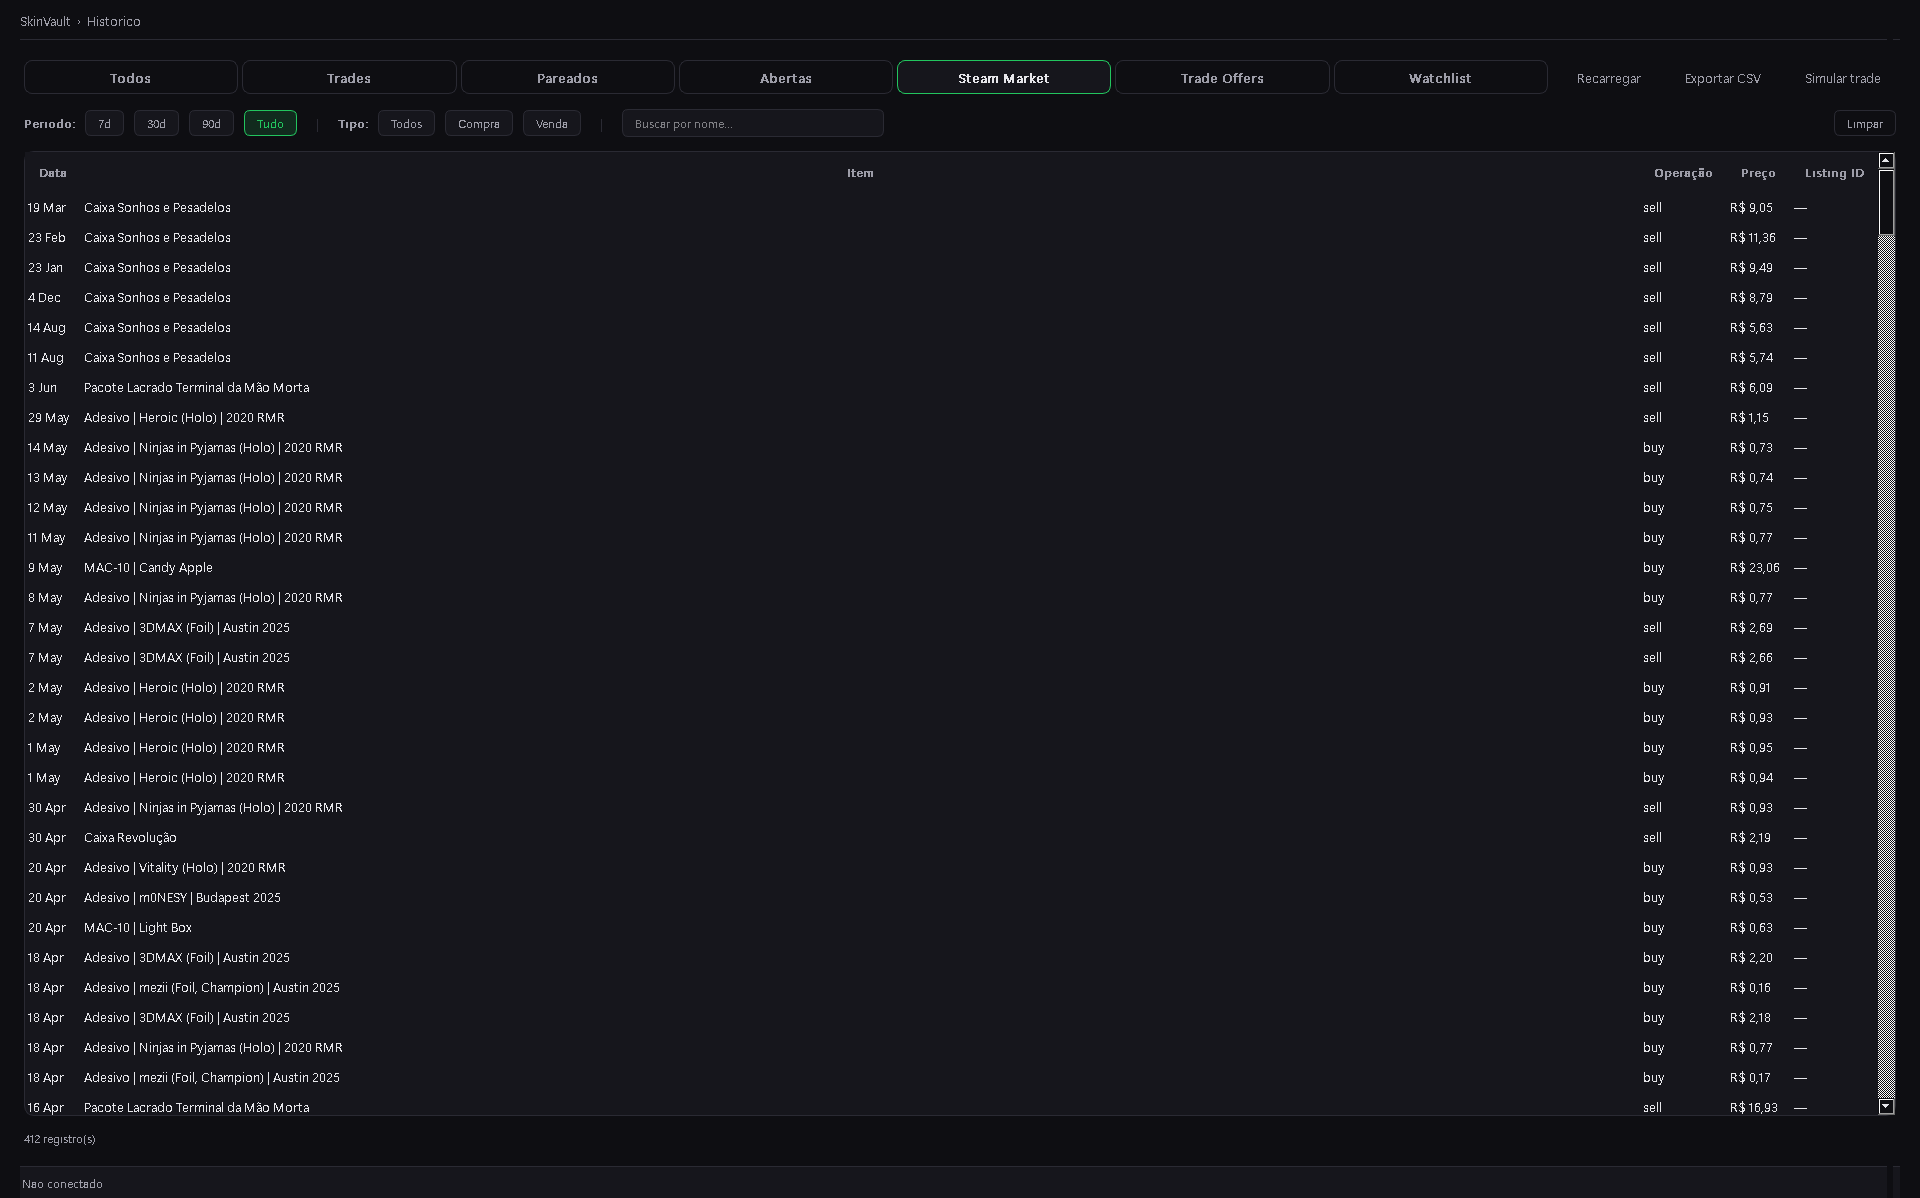
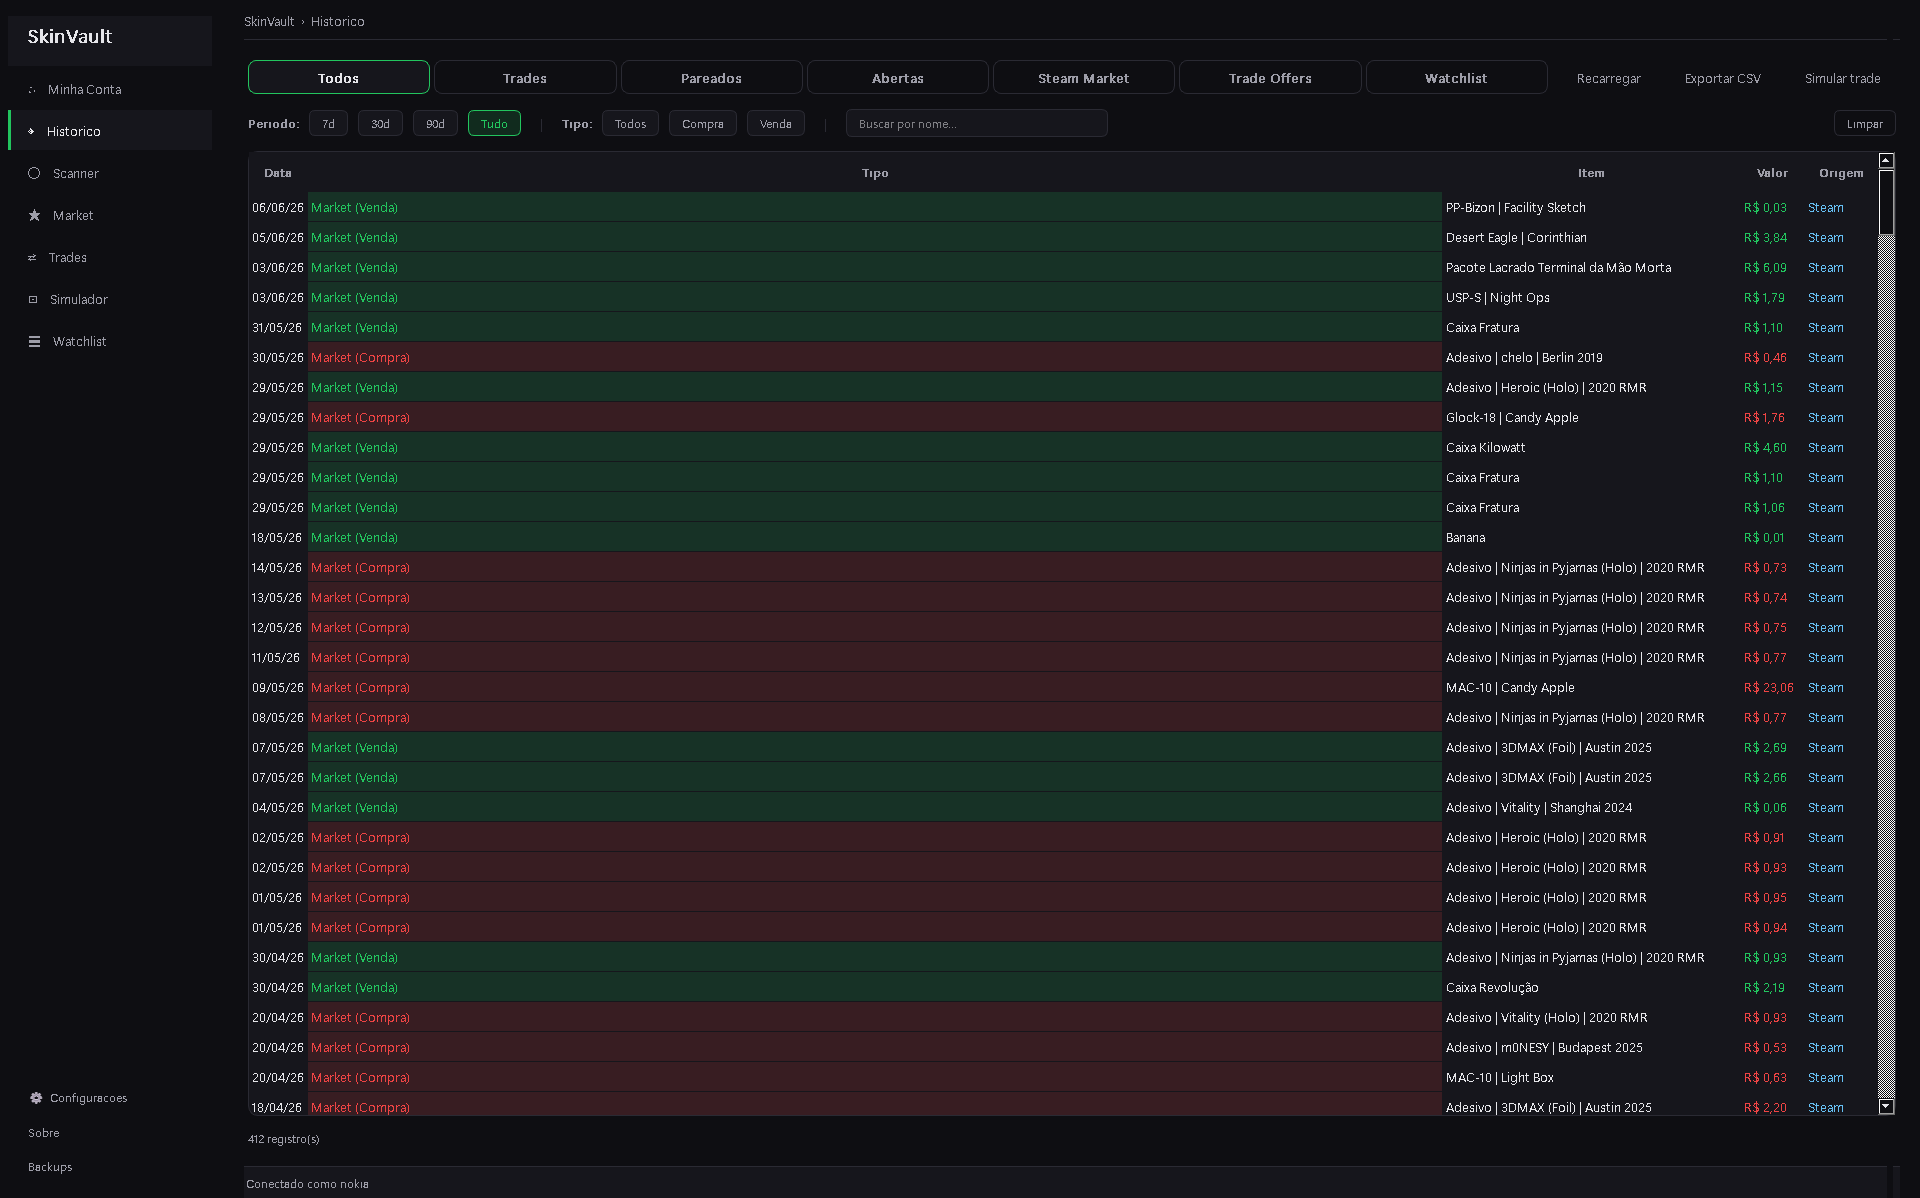
feat: visual estilo Steam no HistoryScreen (Phase A)
Replica a aparencia da aba "Meu Historico no Mercado" do Steam:
- Linhas de Compra: bg vermelho escuro + texto vermelho na coluna Tipo,
  preco em vermelho.
- Linhas de Venda: bg verde escuro + texto verde na coluna Tipo, preco
  em verde.
- Rotulos "Compra"/"Venda" em pt-BR via _side_label() (era cru "buy"/
  "sell"/"Market (buy)").

Implementacao:
- _populate aceita side_meta={op_col, price_col, vals} opcional.
  Aplica QColor + bg em rgba(0.16 alpha) — mesmo tom que Steam usa.
- _load_market e _load_all retornam side_meta. Demais loaders sem side
  passam None (sem coloring).
- Helper _side_label normaliza buy→Compra, sell→Venda.
- 2 testes novos pro _side_label.

Phase A completo (visual sem rede). Phase B (icones PNG via CDN Steam)
ainda nao iniciada.

1261 tests passam.

diff --git a/skinvault/ui/history_screen.py b/skinvault/ui/history_screen.py
@@ -348,6 +348,16 @@ def _in_period(ts: float, period: str) -> bool:
     return ts >= cutoff
 
 
+def _side_label(side: str | None) -> str:
+    """Normaliza 'buy'/'sell' pra rotulo em pt-BR (estilo Steam)."""
+    s = (side or "").lower()
+    if s == "buy":
+        return "Compra"
+    if s == "sell":
+        return "Venda"
+    return side or "—"
+
+
 # ── Tela 2 ───────────────────────────────────────────────────
 class HistoryScreen(QWidget):
     """Tela 2 -- Historico unificado + Watchlist + Simulador."""
@@ -538,6 +548,7 @@ class HistoryScreen(QWidget):
     def refresh(self) -> None:
         self._persist_state()
         seg = self._current_segment
+        side_meta = None
         if seg == "trades":
             headers, rows, count, pnl_col, pnl_vals = self._load_trades()
         elif seg == "matched":
@@ -545,14 +556,19 @@ class HistoryScreen(QWidget):
         elif seg == "open":
             headers, rows, count, pnl_col, pnl_vals = self._load_open()
         elif seg == "market":
-            headers, rows, count, pnl_col, pnl_vals = self._load_market()
+            headers, rows, count, pnl_col, pnl_vals, side_meta = (
+                self._load_market()
+            )
         elif seg == "offers":
             headers, rows, count, pnl_col, pnl_vals = self._load_offers()
         elif seg == "watchlist":
             headers, rows, count, pnl_col, pnl_vals = self._load_watchlist()
         else:
-            headers, rows, count, pnl_col, pnl_vals = self._load_all()
-        self._populate(headers, rows, pnl_col=pnl_col, pnl_vals=pnl_vals)
+            headers, rows, count, pnl_col, pnl_vals, side_meta = (
+                self._load_all()
+            )
+        self._populate(headers, rows, pnl_col=pnl_col, pnl_vals=pnl_vals,
+                       side_meta=side_meta)
         if seg == "matched":
             s = trade_matcher.summarize(self._matched_cache or [])
             self._status.setText(
@@ -665,6 +681,7 @@ class HistoryScreen(QWidget):
             data, key=lambda e: self._event_ts(e), reverse=True,
         )
         rows = []
+        side_vals: list[str | None] = []
         periodo = self._filter_panel.periodo
         tipo = self._filter_panel.tipo
         for ev in sorted_data:
@@ -678,13 +695,15 @@ class HistoryScreen(QWidget):
             rows.append([
                 self._fmt_event_date(ev),
                 ev.get("name", "—"),
-                ev.get("side", "—"),
+                _side_label(side),
                 t.brl(ev.get("price")),
                 ev.get("listing_id") or "—",
             ])
+            side_vals.append(side)
+        side_meta = {"op_col": 2, "price_col": 3, "vals": side_vals}
         return (
             ["Data", "Item", "Operação", "Preço", "Listing ID"],
-            rows, len(rows), None, None,
+            rows, len(rows), None, None, side_meta,
         )
 
     def _load_offers(self):
@@ -734,8 +753,8 @@ class HistoryScreen(QWidget):
 
     def _load_all(self):
         """Timeline cronologica de tudo (trades + market + offers)."""
-        events: list[tuple[float, list]] = []
-        pnl_vals: list[float | None] = []
+        # Cada tupla: (ts, row, pnl, side)
+        events: list[tuple[float, list, float | None, str | None]] = []
         periodo = self._filter_panel.periodo
         for tr in trades.load_trades():
             ts = tr.get("sell_ts", 0)
@@ -744,28 +763,27 @@ class HistoryScreen(QWidget):
             if not self._match_search(tr.get("name", "")):
                 continue
             pnl = tr.get("pnl")
-            pnl_vals.append(pnl)
             events.append((ts, [
                 self._fmt_ts(ts),
                 "Trade",
                 tr.get("name", "—"),
                 t.brl(pnl),
                 self._fmt_source(tr.get("source", "manual")),
-            ]))
+            ], pnl, None))
         for ev in sync.load_market_events():
             ts = self._event_ts(ev)
             if not _in_period(ts, periodo):
                 continue
             if not self._match_search(ev.get("name", "")):
                 continue
-            pnl_vals.append(None)
+            side = (ev.get("side") or "").lower()
             events.append((ts, [
                 self._fmt_event_date(ev),
-                f"Market ({ev.get('side', '—')})",
+                f"Market ({_side_label(side)})",
                 ev.get("name", "—"),
                 t.brl(ev.get("price")),
                 "Steam",
-            ]))
+            ], None, side))
         for of in sync.load_trade_offers():
             ts = self._event_ts(of)
             if not _in_period(ts, periodo):
@@ -773,19 +791,23 @@ class HistoryScreen(QWidget):
             given = ", ".join(of.get("items_given") or [])
             if not self._match_search(given):
                 continue
-            pnl_vals.append(None)
             events.append((ts, [
                 self._fmt_event_date(of),
                 "Trade Offer",
                 given or "—",
                 "—",
                 "Steam",
-            ]))
+            ], None, None))
         events.sort(key=lambda x: x[0], reverse=True)
-        rows = [row for _, row in events]
+        rows = [e[1] for e in events]
+        pnl_vals = [e[2] for e in events]
+        side_vals = [e[3] for e in events]
+        # Coluna 1 = "Tipo" (Market (Compra)/Market (Venda)/Trade/Trade Offer)
+        # Coluna 3 = "Valor" — colorir baseado em side quando market event.
+        side_meta = {"op_col": 1, "price_col": 3, "vals": side_vals}
         return (
             ["Data", "Tipo", "Item", "Valor", "Origem"],
-            rows, len(rows), 3, pnl_vals,
+            rows, len(rows), 3, pnl_vals, side_meta,
         )
 
     # ── helpers ──────────────────────────────────────────
@@ -817,7 +839,8 @@ class HistoryScreen(QWidget):
 
     def _populate(self, headers: list[str], rows: list[list[str]],
                    pnl_col: int | None = None,
-                   pnl_vals: list[float | None] | None = None) -> None:
+                   pnl_vals: list[float | None] | None = None,
+                   side_meta: dict | None = None) -> None:
         from skinvault.localization import localize_name as _ln
         # Desativa sort durante o populate (recomendacao Qt)
         was_sorting = self._table.isSortingEnabled()
@@ -831,8 +854,16 @@ class HistoryScreen(QWidget):
             i for i, h in enumerate(headers)
             if h in ("Item", "Itens")
         }
+        # Side-aware coloring (estilo Steam: vermelho compra, verde venda).
+        side_op_col = side_meta.get("op_col") if side_meta else None
+        side_price_col = side_meta.get("price_col") if side_meta else None
+        side_vals_list = side_meta.get("vals") if side_meta else None
         for i, row in enumerate(rows):
             self._table.insertRow(i)
+            row_side = (
+                side_vals_list[i]
+                if side_vals_list and i < len(side_vals_list) else None
+            )
             for c, val in enumerate(row):
                 if c in name_cols:
                     val = _ln(val)
@@ -847,6 +878,20 @@ class HistoryScreen(QWidget):
                 elif (headers[c] == "Origem"
                         and val.strip().lower() == "steam"):
                     it.setForeground(QBrush(QColor(t.STEAM_BLUE)))
+                # Side coloring (Operação + Preço/Valor) — só pra buy/sell.
+                # rgba(*, 0.16) → QColor(R, G, B, 41) (16% alpha = 41/255).
+                if row_side in ("buy", "sell"):
+                    if row_side == "buy":
+                        color = QColor(t.DANGER)
+                        bg = QColor(239, 68, 68, 41)
+                    else:
+                        color = QColor(t.ACCENT)
+                        bg = QColor(34, 197, 94, 41)
+                    if c == side_op_col:
+                        it.setForeground(QBrush(color))
+                        it.setBackground(QBrush(bg))
+                    elif c == side_price_col:
+                        it.setForeground(QBrush(color))
                 self._table.setItem(i, c, it)
         hh = self._table.horizontalHeader()
         for i in range(self._table.columnCount()):

diff --git a/tests/test_ui_smoke.py b/tests/test_ui_smoke.py
@@ -3653,6 +3653,22 @@ def test_fmt_event_date_sem_dados_retorna_dash():
     assert screen._fmt_event_date({}) == "—"
 
 
+def test_side_label_buy_sell():
+    """_side_label normaliza 'buy'/'sell' em pt-BR."""
+    from skinvault.ui.history_screen import _side_label
+    assert _side_label("buy") == "Compra"
+    assert _side_label("BUY") == "Compra"
+    assert _side_label("sell") == "Venda"
+
+
+def test_side_label_outros_e_none():
+    """_side_label devolve original quando nao for buy/sell."""
+    from skinvault.ui.history_screen import _side_label
+    assert _side_label(None) == "—"
+    assert _side_label("") == "—"
+    assert _side_label("listed") == "listed"
+
+
 class TestFilterBar:
     """Testes do _FilterBar."""
 
